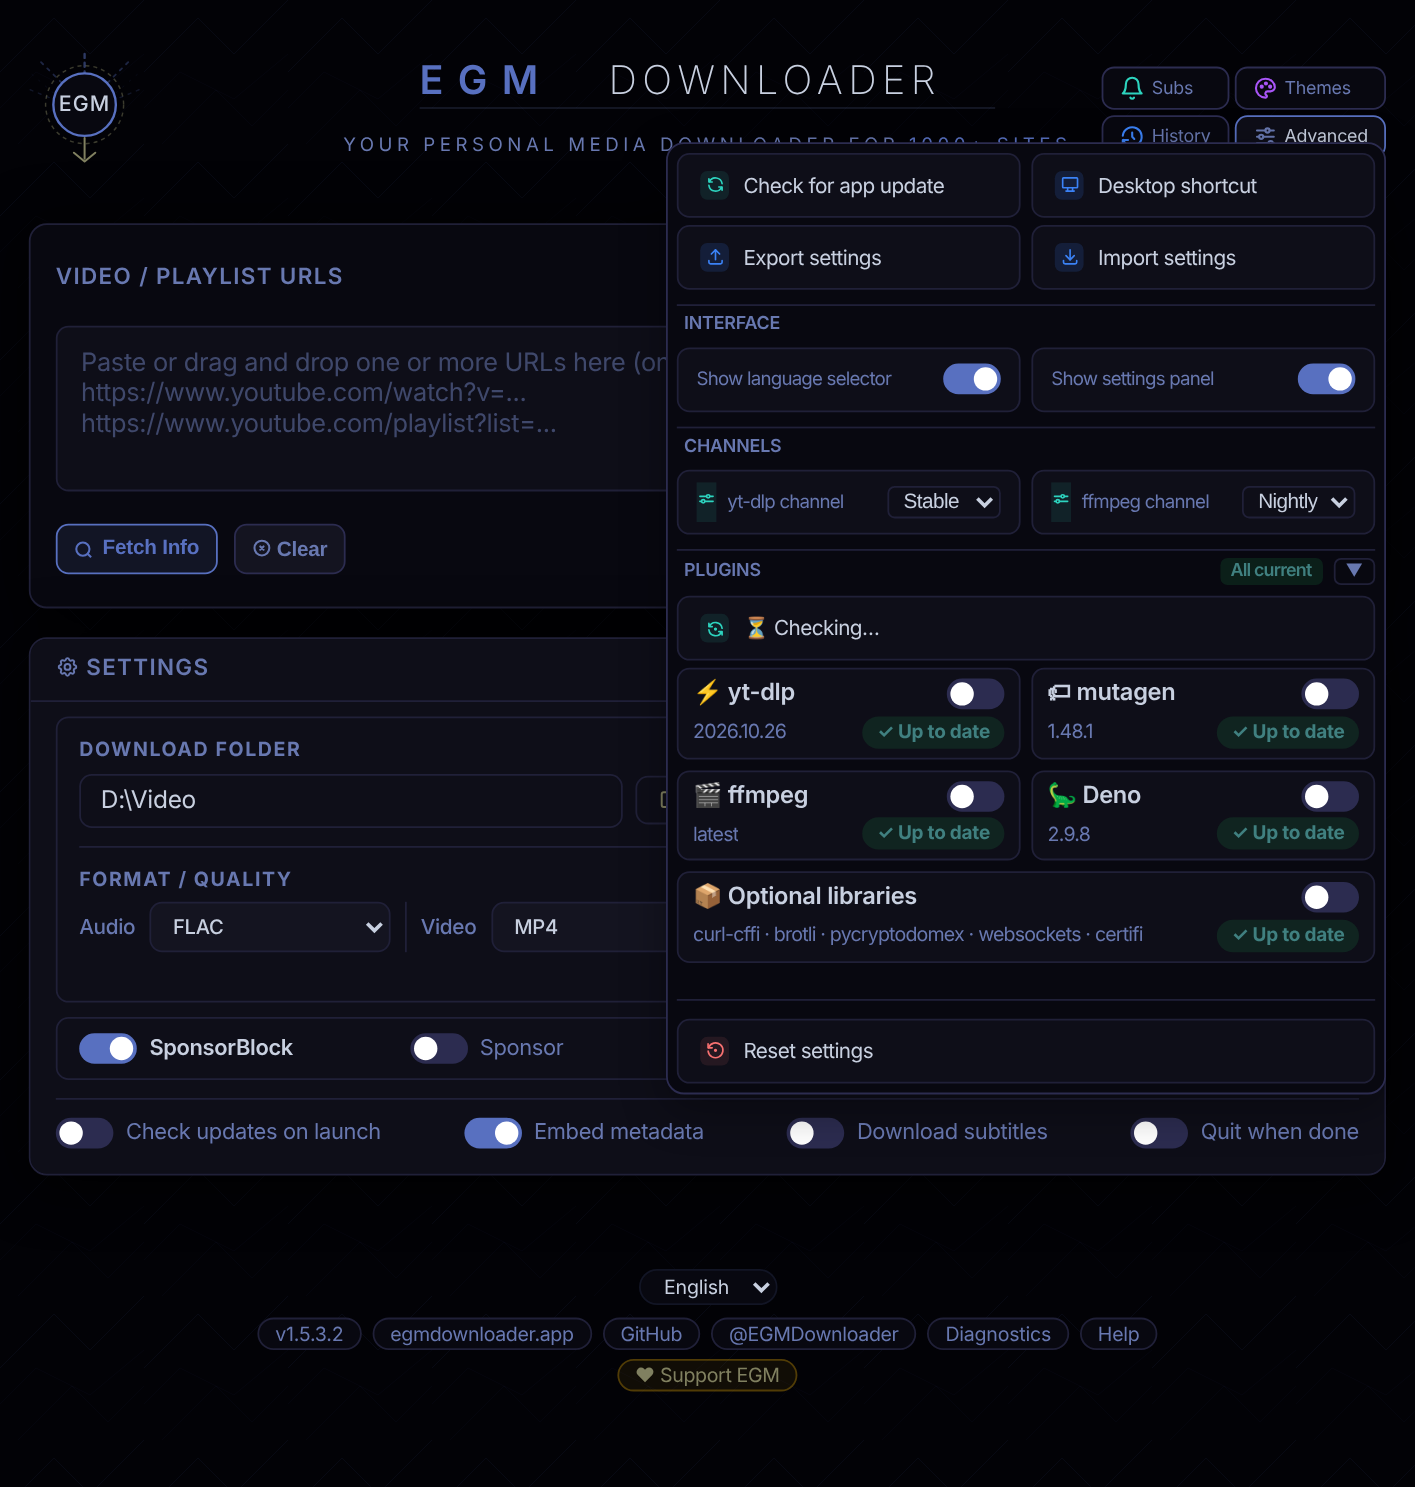
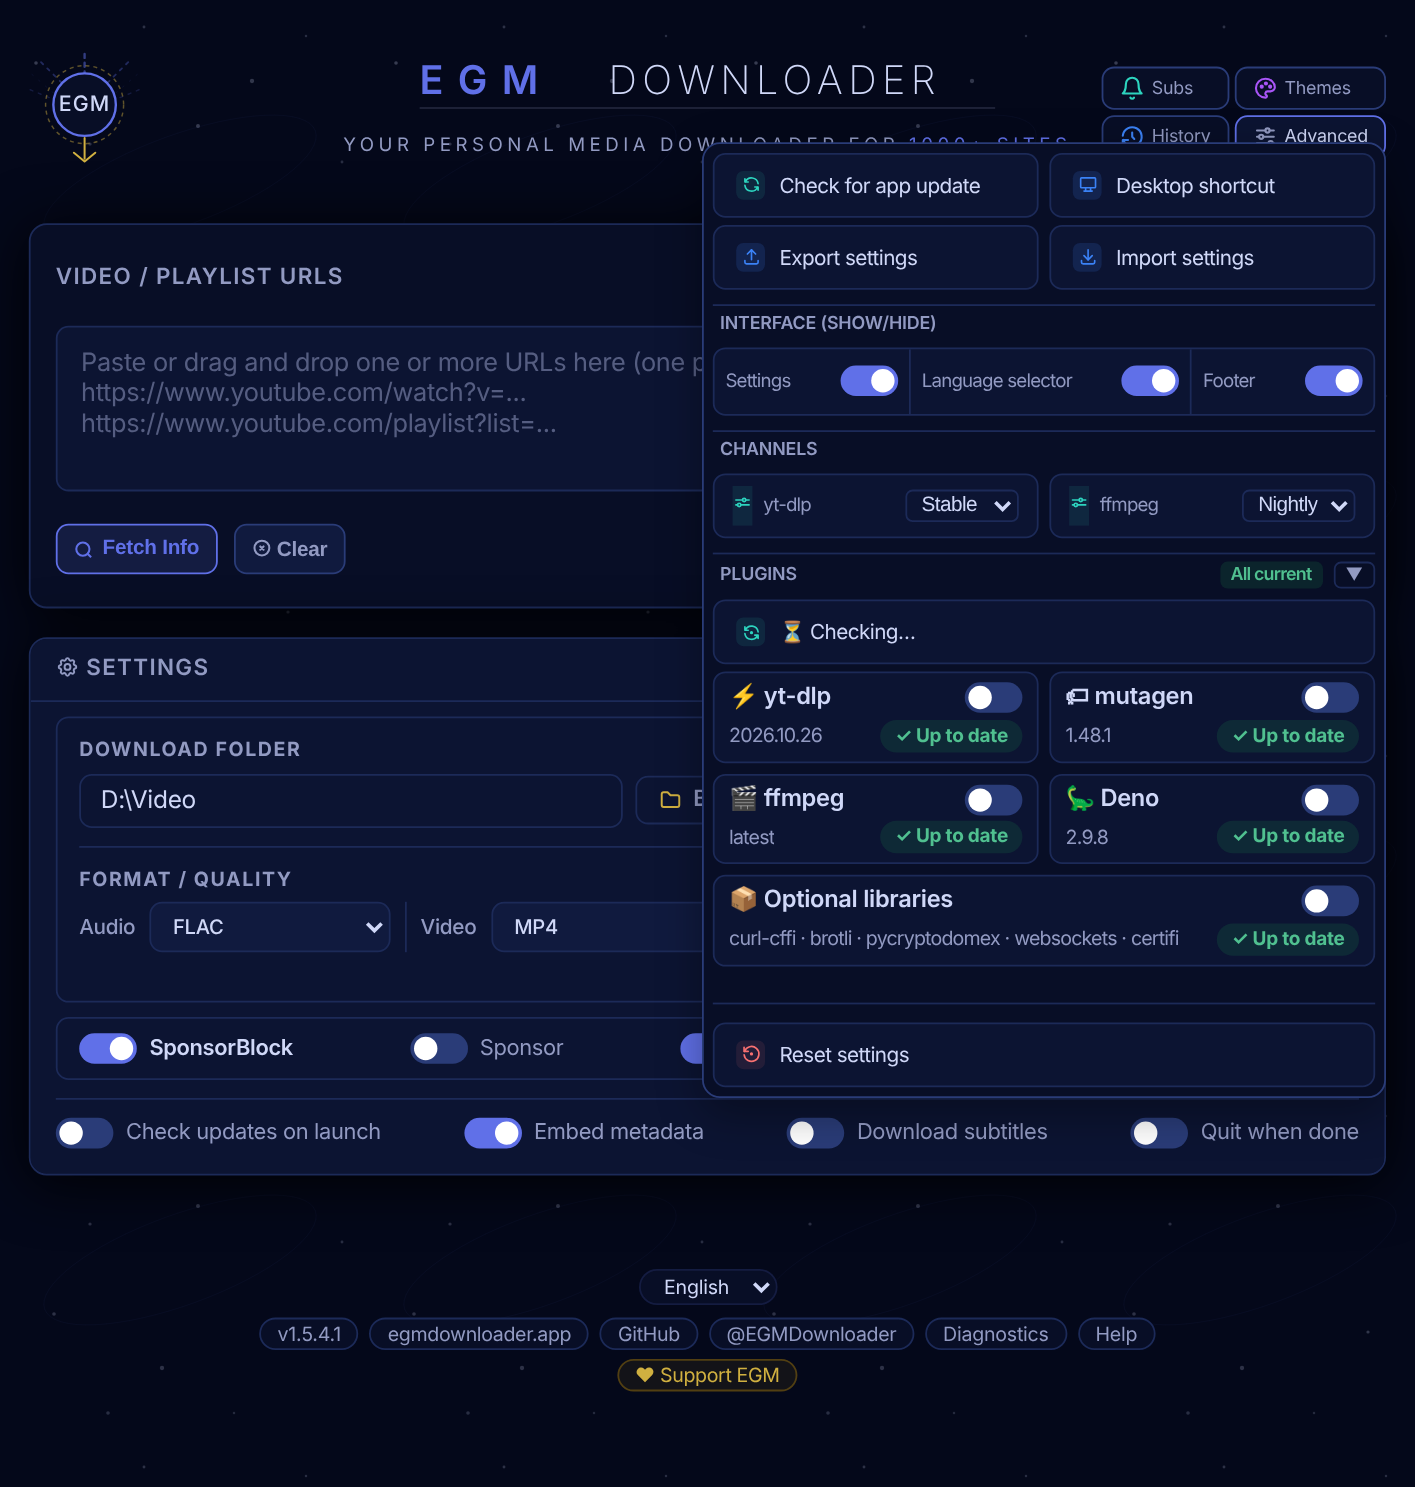
docs: v1.5.4.1 release hashes and sizes, the new screenshots, Pause and Resume and the quit question in the Live Stream Recording line, the footer switch in the Diagnostics line, and SECURITY.md no longer excepts the yt-dlp nightly from ignoring pip settings

diff --git a/README.md b/README.md
@@ -49,7 +49,7 @@
 - 🌈 **HDR Downloads** - Videos with HDR10, HDR10+, HLG, or Dolby Vision show as a separate option per resolution; saves as MKV to preserve HDR data untouched
 - 📋 **Playlist Support** - Download entire playlists with one click
 - ➕ **Add While Downloading** - Paste more links while downloads are running. New videos join the list and the current run, Clear keeps the downloads in progress, and one progress bar with Cancel All covers everything.
-- 🔴 **Live Stream Recording** - Live streams show a LIVE tag with recording time and size. "Stop and save" keeps what was captured, and a recording that fails partway is saved instead of lost. If the stream drops, it reconnects on its own (up to 5 times in a row) and joins the pieces into one file, with a notice when a few seconds may be missing or repeated.
+- 🔴 **Live Stream Recording** - Live streams show a LIVE tag with recording time and size. Pause and Resume leave the paused time out and join the pieces into one file. "Stop and save" keeps what was captured, and a recording that fails partway is saved instead of lost. Quitting during a recording asks whether to save it, discard it, or keep the app open. If the stream drops, it reconnects on its own (up to 5 times in a row) and joins the pieces into one file, with a notice when a few seconds may be missing or repeated.
 - 📡 **Subscriptions** - Save channels and playlists, auto-fetch new videos, and download with per-channel settings and a live download queue
 - 🚫 **SponsorBlock** - Optionally cut sponsor reads, self promotion, intros and outros out of downloaded YouTube videos, using the community [SponsorBlock](https://sponsor.ajay.app/) database. Off by default; choose categories globally or per subscription.
 - 🔤 **Subtitles & Metadata** - Embed subtitles and rich metadata (thumbnail, chapters, title/artist/date) directly into video files
@@ -63,7 +63,7 @@
 - 💼 **Settings Export / Import** - Back up and restore your settings and subscriptions, including each subscription's own folder, format, quality, auto fetch and SponsorBlock settings
 - 🔄 **Updates** - Built-in update checker that only trusts a signed release feed (on Windows the app also downloads the update and checks its SHA256 before installing; on Mac and Linux it opens the download page), plus in app updates for yt-dlp, ffmpeg, and optional libraries without reinstalling
 - 💼 **Windows Portable** - Run from any folder or USB drive, no installer and no registry. Downloads its own private Python on first run.
-- 📋 **Diagnostics** - Live log viewer in the footer and the Subscriptions window, with optional raw yt-dlp output and export to file for troubleshooting
+- 📋 **Diagnostics** - Live log viewer in the footer and the Subscriptions window, with optional raw yt-dlp output and export to file for troubleshooting. The footer can be hidden with a switch in Advanced.
 - 🧹 **Smart Cleanup** - Automatic removal of temporary files and failed downloads
 - ⏱ **Quit When Done** - Close the app automatically once every download has finished, from the main window or the Subscriptions queue. A 30 second countdown appears in the middle of the window and stops with Cancel or Esc. It won't close if a download failed or was cancelled.
 
@@ -73,7 +73,7 @@
 
 ## 🖼 Screenshots
 
-> 📸 *Screenshots of v1.5.3.2, THE TOTAL PACKAGE. The UI is identical across Windows, macOS, and Linux.*
+> 📸 *Screenshots of v1.5.4.1, RAW FEED: RELOADED. The UI is identical across Windows, macOS, and Linux.*
 
 <table>
   <tr>
@@ -82,12 +82,12 @@
       <br/><sub><b>Splash Screen</b></sub>
     </td>
     <td align="center" width="33%">
-      <a href="screenshots/02-main-ui.png"><img src="screenshots/02-main-ui.png" width="260" alt="Main UI, Dreamcast theme"/></a>
-      <br/><sub><b>Main UI</b> (Dreamcast theme)</sub>
+      <a href="screenshots/02-main-ui.png"><img src="screenshots/02-main-ui.png" width="260" alt="Main UI, Saffron theme"/></a>
+      <br/><sub><b>Main UI</b> (Saffron theme)</sub>
     </td>
     <td align="center" width="33%">
-      <a href="screenshots/03-advanced-panel.png"><img src="screenshots/03-advanced-panel.png" width="260" alt="Advanced Panel, Evergreen theme"/></a>
-      <br/><sub><b>Advanced Panel</b> (Evergreen theme)</sub>
+      <a href="screenshots/03-advanced-panel.png"><img src="screenshots/03-advanced-panel.png" width="260" alt="Advanced Panel, Mermaid theme"/></a>
+      <br/><sub><b>Advanced Panel</b> (Mermaid theme)</sub>
     </td>
   </tr>
 </table>
@@ -95,25 +95,12 @@
 <table>
   <tr>
     <td align="center" width="50%">
-      <a href="screenshots/08-live-streams.png"><img src="screenshots/08-live-streams.png" width="271" alt="Live streams recording and a download running, Blast Processing theme"/></a>
-      <br/><sub><b>Live Streams</b> (Blast Processing theme)</sub>
+      <a href="screenshots/08-live-streams.png"><img src="screenshots/08-live-streams.png" width="271" alt="Live streams recording and a download running, Lisbon theme"/></a>
+      <br/><sub><b>Live Streams</b> (Lisbon theme)</sub>
     </td>
     <td align="center" width="50%">
-      <a href="screenshots/09-live-reconnecting.png"><img src="screenshots/09-live-reconnecting.png" width="371" alt="A live stream reconnecting, 2049 theme"/></a>
-      <br/><sub><b>Live Stream Reconnecting</b> (2049 theme)</sub>
-    </td>
-  </tr>
-</table>
-
-<table>
-  <tr>
-    <td align="center" width="50%">
-      <a href="screenshots/10-quit-when-done.png"><img src="screenshots/10-quit-when-done.png" width="308" alt="Quit when done countdown, Fogbank theme"/></a>
-      <br/><sub><b>Quit When Done</b> (Fogbank theme)</sub>
-    </td>
-    <td align="center" width="50%">
-      <a href="screenshots/06-advanced-plugins.png"><img src="screenshots/06-advanced-plugins.png" width="308" alt="Advanced Panel with the plugins list, Obsidian theme"/></a>
-      <br/><sub><b>Advanced Panel, Plugins</b> (Obsidian theme)</sub>
+      <a href="screenshots/09-live-reconnecting.png"><img src="screenshots/09-live-reconnecting.png" width="371" alt="A live stream reconnecting, Honey theme"/></a>
+      <br/><sub><b>Live Stream Reconnecting</b> (Honey theme)</sub>
     </td>
   </tr>
 </table>
@@ -121,12 +108,12 @@
 <table>
   <tr>
     <td align="center" width="50%">
-      <a href="screenshots/04-all-themes.png"><img src="screenshots/04-all-themes.png" width="459" alt="All Themes, Windows 95 theme"/></a>
-      <br/><sub><b>All Themes</b> (Windows 95 theme)</sub>
+      <a href="screenshots/10-quit-when-done.png"><img src="screenshots/10-quit-when-done.png" width="308" alt="Quit when done countdown, Mac OS 9 theme"/></a>
+      <br/><sub><b>Quit When Done</b> (Mac OS 9 theme)</sub>
     </td>
     <td align="center" width="50%">
-      <a href="screenshots/11-theme-creator.png"><img src="screenshots/11-theme-creator.png" width="320" alt="Theme Creator with a custom theme, Plum Harbor"/></a>
-      <br/><sub><b>Theme Creator</b> (custom Plum Harbor theme)</sub>
+      <a href="screenshots/06-advanced-plugins.png"><img src="screenshots/06-advanced-plugins.png" width="308" alt="Advanced Panel with the plugins list, Andromeda theme"/></a>
+      <br/><sub><b>Advanced Panel, Plugins</b> (Andromeda theme)</sub>
     </td>
   </tr>
 </table>
@@ -134,12 +121,25 @@
 <table>
   <tr>
     <td align="center" width="50%">
-      <a href="screenshots/05-subscriptions.png"><img src="screenshots/05-subscriptions.png" width="444" alt="Subscriptions, Amethyst theme"/></a>
-      <br/><sub><b>Subscriptions</b> (Amethyst theme)</sub>
+      <a href="screenshots/04-all-themes.png"><img src="screenshots/04-all-themes.png" width="459" alt="All Themes, Y2K theme"/></a>
+      <br/><sub><b>All Themes</b> (Y2K theme)</sub>
     </td>
     <td align="center" width="50%">
-      <a href="screenshots/07-download-history.png"><img src="screenshots/07-download-history.png" width="334" alt="Download History, Seafoam theme"/></a>
-      <br/><sub><b>Download History</b> (Seafoam theme)</sub>
+      <a href="screenshots/11-theme-creator.png"><img src="screenshots/11-theme-creator.png" width="320" alt="Theme Creator with a custom theme, Juniper Dusk"/></a>
+      <br/><sub><b>Theme Creator</b> (custom Juniper Dusk theme)</sub>
+    </td>
+  </tr>
+</table>
+
+<table>
+  <tr>
+    <td align="center" width="50%">
+      <a href="screenshots/05-subscriptions.png"><img src="screenshots/05-subscriptions.png" width="444" alt="Subscriptions, Tiedye theme"/></a>
+      <br/><sub><b>Subscriptions</b> (Tiedye theme)</sub>
+    </td>
+    <td align="center" width="50%">
+      <a href="screenshots/07-download-history.png"><img src="screenshots/07-download-history.png" width="334" alt="Download History, Amsterdam theme"/></a>
+      <br/><sub><b>Download History</b> (Amsterdam theme)</sub>
     </td>
   </tr>
 </table>
@@ -150,7 +150,7 @@
 🔗 **Platform page:** [windows.egmdownloader.app](https://windows.egmdownloader.app)
 **Latest:** v1.5.4.1  
 **Download:** [EGMd.zip](https://egerena.com/apps/EGMd.zip) (122 MB · ~800 MB after install)  
[2 lines of base64/hex data omitted]
 **Install:** Extract `EGMd.zip`, run `egm-setup.exe` and follow the installer. Then paste a video URL, fetch the info, and click Download.  
 **Requirements:** Windows 10/11 (64-bit), on an Intel or AMD processor. Windows 11 on ARM also works through Windows' own x64 emulation, but it is not officially supported. Nothing else: Electron and Python come with the installer  
 **Code Signed:** Installer is signed with an IV code signing certificate. SmartScreen may show a warning on first run until the certificate builds reputation.
@@ -158,8 +158,8 @@
 
 ### Windows Portable
 **Latest:** v1.5.4.1  
-**Download:** [EGMd-portable.zip](https://egerena.com/apps/EGMd-portable.zip) (716 KB · ~1 GB after first run)  
[1 lines of base64/hex data omitted]
+**Download:** [EGMd-portable.zip](https://egerena.com/apps/EGMd-portable.zip) (724 KB · ~1 GB after first run)  
[1 lines of base64/hex data omitted]
 **Install:** Extract `EGMd-portable.zip` and run `EGM Downloader.exe`. Settings and data stay in the same folder, so you can take it anywhere.  
 **Requirements:** Windows 10/11 (64-bit) · **Python 3.10+** — install from [python.org](https://www.python.org/downloads/) and tick “Add Python to PATH”  
 **No installer, no registry** — runs from any folder or USB drive (system Python 3.10+ is used only to bootstrap; the app then downloads a private Python and runs on that. Node, Electron, ffmpeg & Deno are fetched on first run, and a newer Electron after an app update that needs one)  
@@ -170,7 +170,7 @@
 🔗 **Platform page:** [mac.egmdownloader.app](https://mac.egmdownloader.app)
 **Latest:** v1.5.4.1  
 **Download:** [EGMdM.zip](https://egerena.com/apps/EGMdM.zip) (145 MB · ~300 MB after install)  
[2 lines of base64/hex data omitted]
 **Install:** Extract `EGMdM.zip`, open the `.dmg`, drag "EGM Downloader" to Applications, and launch it.  
 **Requirements:** macOS 13.0 (Ventura) or later · Apple Silicon (M1–M5) only  
 **Signed & Notarized:** This build is Apple notarized — runs without Gatekeeper warnings
@@ -180,7 +180,7 @@
 🔗 **Platform page:** [linux.egmdownloader.app](https://linux.egmdownloader.app)
 **Latest:** v1.5.4.1  
 **Download:** [EGMdL.zip](https://egerena.com/apps/EGMdL.zip) (172 MB · ~300 MB after install)  
[2 lines of base64/hex data omitted]
 **Install:** Extract `EGMdL.zip`, make it executable with `chmod +x "EGM Downloader.AppImage"`, then double-click to launch (or run it from a terminal).  
 **Format:** AppImage (Universal)  
 **Supported Distros:** Ubuntu 20.04+, Mint 20+, Pop!_OS, Fedora 39+, Arch, and more

diff --git a/SECURITY.md b/SECURITY.md
@@ -145,7 +145,7 @@ EGM Downloader makes network requests to:
 - **Video thumbnail CDNs** - The window shows previews straight from the video site, and fetches the picture for your download history the same way. Both send a plain Chrome user agent (no app name, no Electron), no Referer and no cookies. If the window can't fetch a history picture, the app fetches it itself with the user agent yt-dlp used for that download. HTTPS only, and a 500 KB cap on history pictures
 - **sponsor.ajay.app** - Only when the optional SponsorBlock feature is turned on (off by default). yt-dlp looks up community submitted segment data using the first 4 characters of a hash (SHA256) of the video ID. The video ID itself is not sent, and the app makes no SponsorBlock requests of its own.
 
-Nothing else reaches out. The window downloads no spellcheck dictionary and makes no early DNS lookups of links on screen, and the app ignores your own yt-dlp configuration and your pip settings (except when it installs the yt-dlp nightly), so neither can add a proxy or change what is sent. The app's window follows your system's proxy settings. On Windows, with automatic proxy detection turned on, that includes looking up a computer named "wpad" on your local network.
+Nothing else reaches out. The window downloads no spellcheck dictionary and makes no early DNS lookups of links on screen, and the app ignores your own yt-dlp configuration and your pip settings, so neither can add a proxy or change what is sent. The app's window follows your system's proxy settings. On Windows, with automatic proxy detection turned on, that includes looking up a computer named "wpad" on your local network.
 
 All network activity is related to core functionality. We do not send telemetry or analytics.
 
